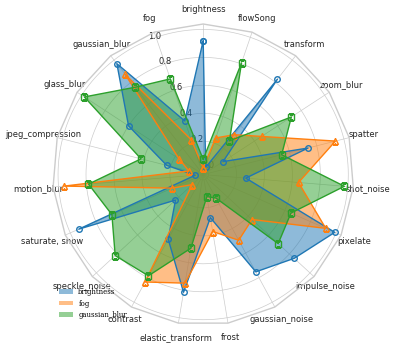
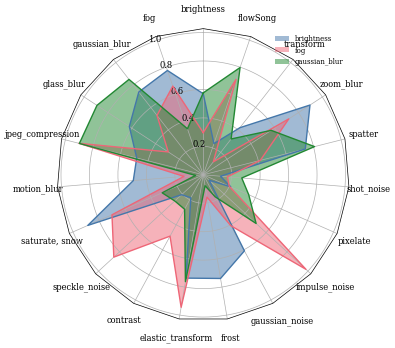
modify README

diff --git a/README.md b/README.md
@@ -14,7 +14,6 @@ pip install freeplot
 
 1. import
 
-Mostly FreePlot module is enough.
 ```
 from freeplot.base import FreePlot
 ```
@@ -25,8 +24,11 @@ from freeplot.base import FreePlot
 fp = FreePlot(shape=(2, 2), figsize=(5, 5), titles=('a', 'b', 'c', 'd'), sharey=True)
 ```
 shape: the arrangement of axes, 2 x 2, a total 4 axes in this case;
+
 figsize: (width, height), 500 x 500 in this case;
+
 titles: the title for each ax;
+
 sharey: axes will share the y axis if true.
 
 the container can be used in a ndarray-style, e.g.:
@@ -37,7 +39,7 @@ You can also use title:
 ```
 # fp['a']
 ```
-But the slice operation is not support:
+But the slice operation is not supported:
 ```
 # fp[:, 0]
 ```
@@ -73,7 +75,7 @@ fp.set_title(y=0.98) # for all axes
 ```
 fp.savefig('test.pdf')
 ```
-FreePlot will create a file named media and save the fig there, namely './media/test.pdf' in this case.
+FreePlot will create a path named media and save the fig there, namely './media/test.pdf' in this case.
 
 ## Example
 
@@ -148,7 +150,6 @@ fp.savefig('demo.png')
 
 ### Radar
 
-EE
 
 
 
@@ -178,7 +179,7 @@ data = {
     'C': np.random.rand(len(labels))
 }
 
-pos_radar(data, labels, fp)
+pos_radar(data, labels, fp, index=(0, 0), style='bright')
 
 fp[0, 0].legend()
 
@@ -262,32 +263,16 @@ fp.savefig('inset.png')
 
 
 
-Because we adopt the 'science' as the basic style, which use latex in default, it will raise error if you don't have Latex on you computer. You shall call
-
+Because we adopt the 'science' as the basic style, which use latex in default, it will raise error if you don't have Latex on you computer. 
+In addition, it needs long time to throughly complete the plotting under 'latex' environment.
+You shall use the following to close it,
 ```
 fp.set_style('no-latex')
 ```
-
 or
-
 ```
 plt.style.use('no-latex')
 ```
-
-to circumvent this problem. However, once you call this, please don't use
-
-```
-fp.show()
-```
-
-or
-
-```
-plt.show()
-```
-
-any more. You shall use savefig directly.
-
 
 
 ## Tips
@@ -301,3 +286,23 @@ any more. You shall use savefig directly.
    ```
 
 2. You may find some interesting implementations in freeplot.zoo, such as tsne, roc_curve ...
+
+3. You can use a list of styles:
+
+    ```
+    fp.set_style(['bright', 'high-vis'])
+    ```
+4. It would be better to use
+
+    ```
+    fp.legend
+    ```
+    to set legend instance instead of
+    ```
+    fp[0, 0].legend
+    ```
+
+5. You can find all available styles by
+    ```
+    fp.styles
+    ```
